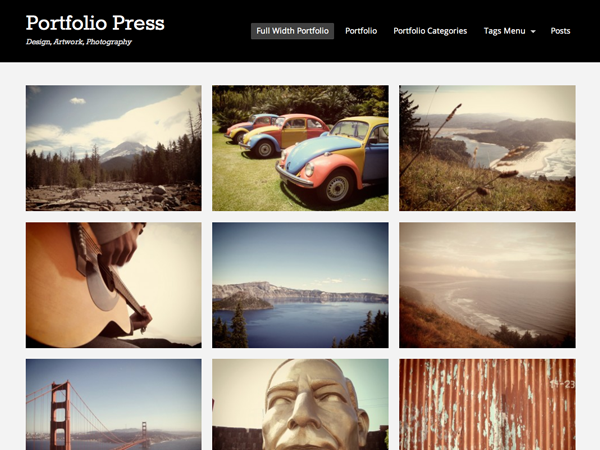
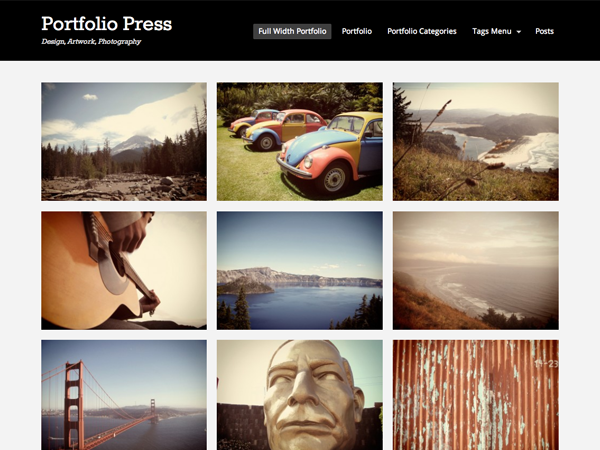
Version 1.8 bump.  Larger screenshot, Options Framework compatibility.

diff --git a/style.css b/style.css
@@ -4,7 +4,7 @@ Description: Portfolio Press is a responsive theme for showcasing your photograp
 Author: Devin Price
 Author URI: http://wptheming.com/
 Theme URI: http://wptheming.com/portfolio-theme/
-Version: 1.7
+Version: 1.8
 License: GNU General Public License
 License URI: license.txt
 Tags: white, black, gray, two-columns, left-sidebar, right-sidebar, flexible-width, custom-menu, full-width-template, microformats, post-formats, rtl-language-support, theme-options, translation-ready
@@ -246,7 +246,7 @@ h1 a:hover, h2 a:hover, h3 a:hover, h4 a:hover, h5 a:hover, h6 a:hover {
     -moz-transition: all 0.2s ease-in-out;  /* FF4+ */
     -ms-transition: all 0.2s ease-in-out;  /* IE10? */
     -o-transition: all 0.2s ease-in-out;  /* Opera 10.5+ */
-    transition: all 0.2s ease-in-out; 
+    transition: all 0.2s ease-in-out;
 }
 #navigation .menu > ul > li:hover, #navigation .menu > ul > .current-page-item, #navigation .menu > ul > .current-menu-parent, #navigation .menu > ul > .current-menu-item {
 	-moz-border-radius:2px;
@@ -1247,7 +1247,7 @@ h3#pings {
 		padding:0;
 	}
 }
-	
+
 @media (max-width: 480px) {
 	#navigation {
 		width:100%;

diff --git a/extensions/options-functions.php b/extensions/options-functions.php
@@ -2,24 +2,24 @@
 /**
  * @package Portfolio Press
  */
- 
+
 /**
  * Theme options require the "Options Framework" plugin to be installed in order to display.
  * If it's not installed, default settings will be used.
  */
- 
+
 if ( !function_exists( 'of_get_option' ) ) {
 function of_get_option($name, $default = false) {
-	
+
 	$optionsframework_settings = get_option('optionsframework');
-	
+
 	// Gets the unique option id
 	$option_name = $optionsframework_settings['id'];
-	
+
 	if ( get_option($option_name) ) {
 		$options = get_option($option_name);
 	}
-		
+
 	if ( isset($options[$name]) ) {
 		return $options[$name];
 	} else {
@@ -28,7 +28,7 @@ function of_get_option($name, $default = false) {
 }
 }
 
-if ( !function_exists( 'optionsframework_add_page' ) && current_user_can('edit_theme_options') ) {
+if ( !function_exists( 'optionsframework_init' ) && current_user_can('edit_theme_options') ) {
 	function portfolio_options_default() {
 		add_theme_page(__('Theme Options','portfoliopress'), __('Theme Options','portfoliopress'), 'edit_theme_options', 'options-framework','optionsframework_page_notice');
 	}
@@ -41,7 +41,7 @@ if ( !function_exists( 'optionsframework_add_page' ) && current_user_can('edit_t
 
 if ( !function_exists( 'optionsframework_page_notice' ) ) {
 	function optionsframework_page_notice() { ?>
-	
+
 		<div class="wrap">
 		<?php screen_icon( 'themes' ); ?>
 		<h2><?php _e('Theme Options','portfoliopress'); ?></h2>
@@ -54,7 +54,7 @@ if ( !function_exists( 'optionsframework_page_notice' ) ) {
         <li><?php _e('Hide the portfolio image on the single post','portfoliopress'); ?></li>
         <li><?php _e('Update the footer text','portfoliopress'); ?></li>
         </ul>
-        
+
         <p><?php _e('If you don\'t need these options, the plugin is not required and default settings will be used.','portfoliopress'); ?></p>
 		</div>
 	<?php
@@ -67,7 +67,14 @@ if ( !function_exists( 'optionsframework_page_notice' ) ) {
  */
 
 function portfoliopress_panel_info() { ?>
-    <p style="color: #777;">Theme <a href="http://wptheming.com/portfolio-theme">documentation</a>.  For additional options, see <a href="http://wptheming.com/portfolio-plus/">Portfolio+</a>.</p>
+    <p style="color: #777;">
+    <?php printf(
+    	'Theme <a href="%s">documentation</a>.  For additional options, see <a href="%s">Portfolio+</a>.',
+    	esc_url( 'http://wptheming.com/portfolio-theme' ),
+    	esc_url( 'http://wptheming.com/portfolio-plus/' )
+    );
+    ?>
+    </p>
 <?php }
 
 add_action('optionsframework_after','portfoliopress_panel_info', 100);
@@ -75,7 +82,7 @@ add_action('optionsframework_after','portfoliopress_panel_info', 100);
 /**
  * Adds a body class to indicate sidebar position
  */
- 
+
 function portfolio_body_class($classes) {
 	$layout = of_get_option('layout','layout-2cr');
 	$classes[] = $layout;
@@ -102,18 +109,18 @@ add_action('wp_head', 'portfolio_favicon');
  */
 
 function portfolio_head_css() {
-				
+
 		$output = '';
-		
+
 		if ( of_get_option('menu_position') == "clear") {
 			$output .= "#navigation {clear:both; float:none; margin-left:-10px;}\n";
 			$output .= "#navigation ul li {margin-left:0; margin-right:10px;}\n";
 		}
-		
+
 		if ( of_get_option('header_color') != "#000000") {
 			$output .= "#branding {background:" . of_get_option('header_color') . "}\n";
 		}
-		
+
 		// Output styles
 		if ($output <> '') {
 			$output = "<!-- Custom Styling -->\n<style type=\"text/css\">\n" . $output . "</style>\n";
@@ -138,24 +145,24 @@ function portfoliopress_customize_register($wp_customize) {
 	$options = optionsframework_options();
 
 	/* Title & Tagline */
-	
+
 	$wp_customize->add_setting( 'portfoliopress[logo]', array(
 		'type' => 'option'
 	) );
-	
+
 	$wp_customize->add_control( new WP_Customize_Image_Control( $wp_customize, 'logo', array(
 		'label' => $options['logo']['name'],
 		'section' => 'title_tagline',
 		'settings' => 'portfoliopress[logo]'
 	) ) );
-	
+
 	/* Layout */
 
 	$wp_customize->add_section( 'portfoliopress_layout', array(
 		'title' => __( 'Layout', 'portfoliopress' ),
 		'priority' => 100,
 	) );
-	
+
 	$wp_customize->add_setting( 'portfoliopress[layout]', array(
 		'default' => 'layout-2cr',
 		'type' => 'option'
@@ -171,7 +178,7 @@ function portfoliopress_customize_register($wp_customize) {
 			'layout-2cl' => 'Sidebar Left',
 			'layout-1col' => 'Single Column')
 	) );
-	
+
 	$wp_customize->add_setting( 'portfoliopress[menu_position]', array(
 		'default' => 'right',
 		'type' => 'option'
@@ -184,24 +191,24 @@ function portfoliopress_customize_register($wp_customize) {
 		'type' => 'radio',
 		'choices' => $options['menu_position']['options']
 	) );
-	
+
 	/* Header Styles */
-	
+
 	$wp_customize->add_section( 'portfolioplus_header_styles', array(
 		'title' => __( 'Header Style', 'portfoliopress' ),
 		'priority' => 105,
 	) );
-	
+
 	$wp_customize->add_setting( 'portfoliopress[header_color][color]', array(
 		'default' => '#000000',
 		'type' => 'option'
 	) );
-	
+
 	$wp_customize->add_control( new WP_Customize_Color_Control( $wp_customize, 'header_bg_color', array(
 		'label' => __( 'Background Color', 'portfolioplus' ),
 		'section' => 'portfoliopress_header_styles',
 		'settings'   => 'portfoliopress[header_color]'
-	) ) );	
+	) ) );
 }
 
 ?>
